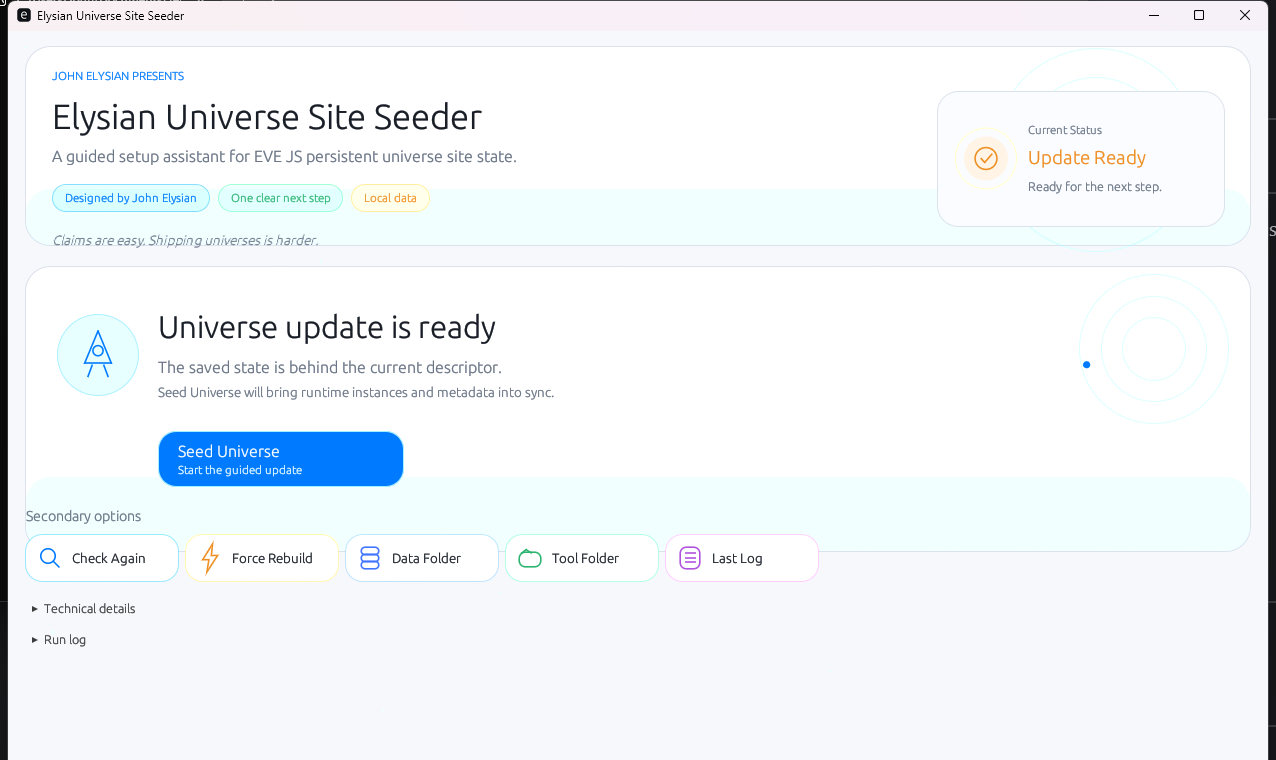
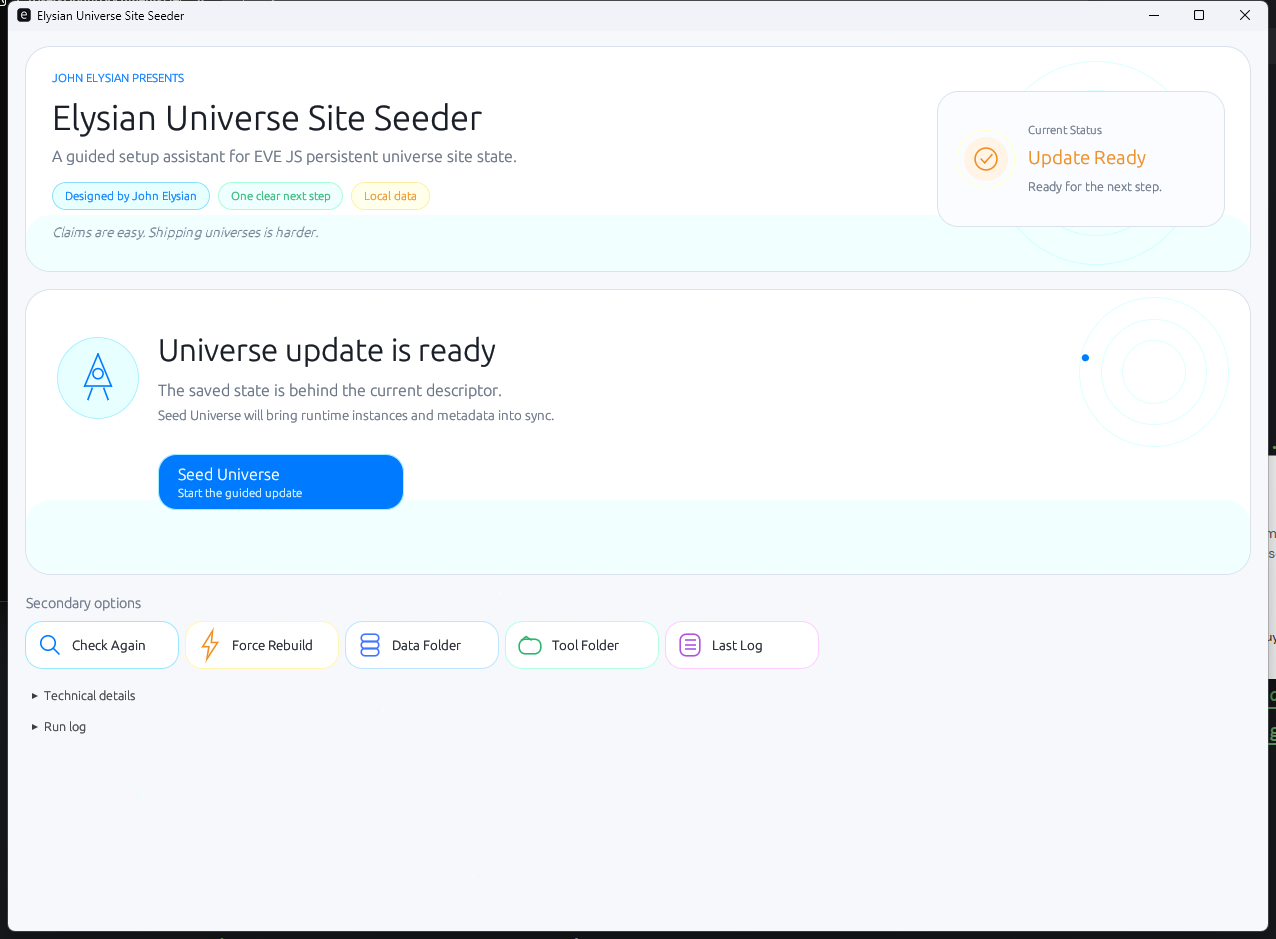
Fix universe seeder GUI layout

diff --git a/src/main.rs b/src/main.rs
@@ -9,8 +9,8 @@ use anyhow::{Context, Result, anyhow};
 use crossbeam_channel::{Receiver, Sender, unbounded};
 use eframe::egui;
 use egui::{
-    Align, Align2, Color32, CornerRadius, FontId, Frame, Layout, Margin, Pos2, Rect, RichText,
-    Sense, Stroke, StrokeKind, Vec2,
+    Align2, Color32, CornerRadius, FontId, Frame, Margin, Pos2, Rect, RichText, Sense, Stroke,
+    StrokeKind, Vec2,
 };
 use serde::Deserialize;
 use serde_json::Value;
@@ -557,66 +557,73 @@ impl UniverseSeederApp {
         let (badge_label, badge_fill, badge_text) = self.status_badge();
         let time = ui.input(|input| input.time);
         let available = ui.available_width();
-        let hero_height = 198.0;
+        let hero_height = 224.0;
         let (rect, _) = ui.allocate_exact_size(Vec2::new(available, hero_height), Sense::hover());
         paint_clean_hero(ui, rect, time, self.running);
-        ui.scope_builder(
-            egui::UiBuilder::new().max_rect(rect.shrink2(Vec2::new(26.0, 22.0))),
-            |ui| {
-                ui.horizontal(|ui| {
-                    ui.vertical(|ui| {
-                        ui.label(
-                            RichText::new("JOHN ELYSIAN PRESENTS")
-                                .size(12.0)
-                                .strong()
-                                .color(CYAN),
-                        );
-                        ui.add_space(10.0);
-                        ui.label(
-                            RichText::new("Elysian Universe Site Seeder")
-                                .size(35.0)
-                                .strong()
-                                .color(TEXT),
-                        )
-                        .on_hover_text("Designed by John Elysian.");
-                        ui.add_space(8.0);
-                        ui.label(
-                            RichText::new(
-                                "A guided setup assistant for EVE JS persistent universe site state.",
-                            )
-                            .size(16.0)
-                            .color(MUTED),
-                        );
-                        ui.add_space(16.0);
-                        ui.horizontal(|ui| {
-                            small_pill(ui, "Designed by John Elysian", CYAN);
-                            small_pill(ui, "One clear next step", GREEN);
-                            small_pill(ui, "Local data", AMBER);
-                        });
-                        ui.add_space(18.0);
-                        ui.label(
-                            RichText::new("Claims are easy. Shipping universes is harder.")
-                                .size(13.0)
-                                .italics()
-                                .color(MUTED),
-                        );
-                    });
-                    ui.with_layout(Layout::right_to_left(Align::Center), |ui| {
-                        let right_width = 286.0;
-                        let (status_rect, _) =
-                            ui.allocate_exact_size(Vec2::new(right_width, 134.0), Sense::hover());
-                        paint_status_card(
-                            ui,
-                            status_rect,
-                            time,
-                            badge_label,
-                            badge_fill,
-                            badge_text,
-                        );
-                    });
-                });
-            },
+        let inner = rect.shrink2(Vec2::new(26.0, 24.0));
+        let status_width = 286.0;
+        let status_height = 134.0;
+        let status_rect = Rect::from_min_size(
+            Pos2::new(
+                inner.right() - status_width,
+                inner.center().y - status_height / 2.0,
+            ),
+            Vec2::new(status_width, status_height),
         );
+        let left_rect = Rect::from_min_max(
+            inner.left_top(),
+            Pos2::new(status_rect.left() - 28.0, inner.bottom()),
+        );
+
+        ui.scope_builder(egui::UiBuilder::new().max_rect(left_rect), |ui| {
+            ui.set_width(left_rect.width());
+            ui.label(
+                RichText::new("JOHN ELYSIAN PRESENTS")
+                    .size(12.0)
+                    .strong()
+                    .color(CYAN),
+            );
+            ui.add_space(9.0);
+            ui.add(
+                egui::Label::new(
+                    RichText::new("Elysian Universe Site Seeder")
+                        .size(35.0)
+                        .strong()
+                        .color(TEXT),
+                )
+                .wrap(),
+            )
+            .on_hover_text("Designed by John Elysian.");
+            ui.add_space(7.0);
+            ui.add(
+                egui::Label::new(
+                    RichText::new(
+                        "A guided setup assistant for EVE JS persistent universe site state.",
+                    )
+                    .size(16.0)
+                    .color(MUTED),
+                )
+                .wrap(),
+            );
+            ui.add_space(14.0);
+            ui.horizontal_wrapped(|ui| {
+                small_pill(ui, "Designed by John Elysian", CYAN);
+                small_pill(ui, "One clear next step", GREEN);
+                small_pill(ui, "Local data", AMBER);
+            });
+            ui.add_space(12.0);
+            ui.add(
+                egui::Label::new(
+                    RichText::new("Claims are easy. Shipping universes is harder.")
+                        .size(13.0)
+                        .italics()
+                        .color(MUTED),
+                )
+                .wrap(),
+            );
+        });
+        paint_status_card(ui, status_rect, time, badge_label, badge_fill, badge_text);
+        ui.advance_cursor_after_rect(rect);
     }
 
     fn draw_guided_focus(&mut self, ui: &mut egui::Ui) {
@@ -1623,6 +1630,7 @@ fn setup_focus(
             assistant_loader(ui, accent, time);
         }
     });
+    ui.advance_cursor_after_rect(rect);
     cta_response
 }
 